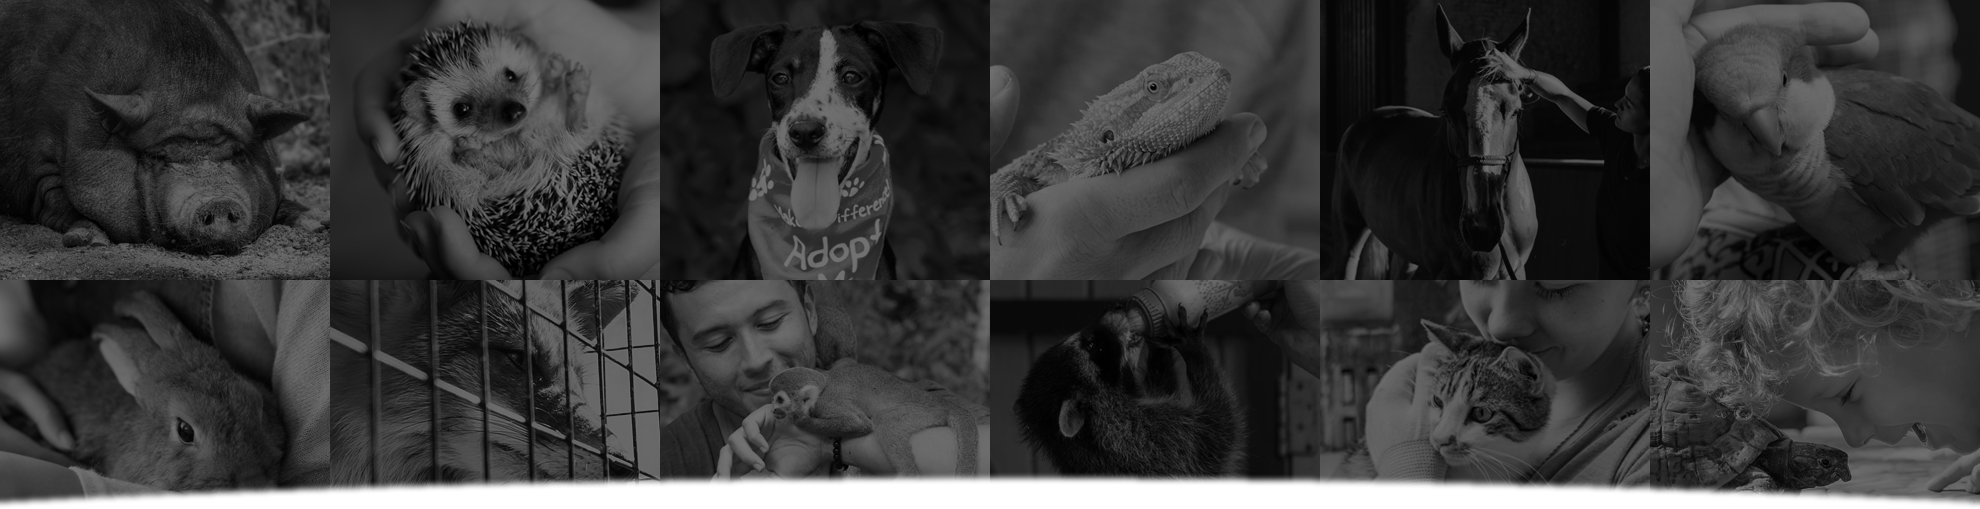
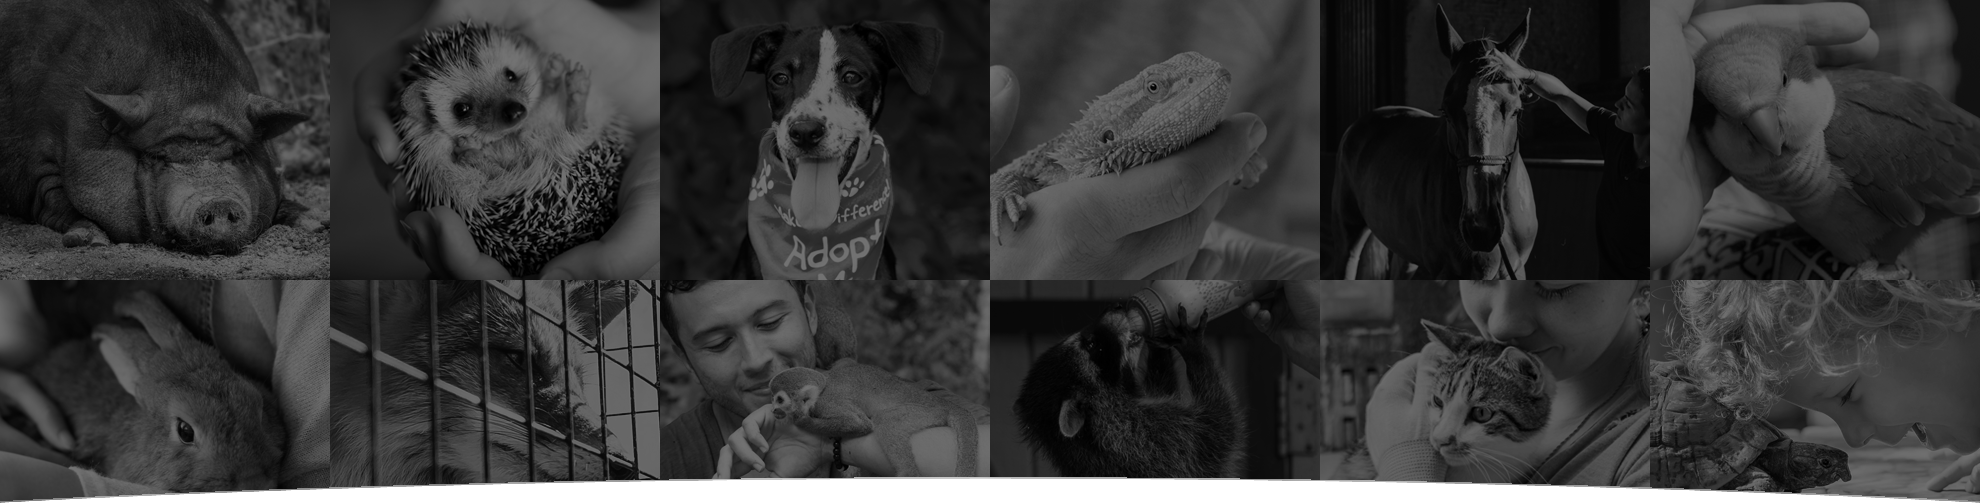
Moved margin override back into universal selector Fixes spacing regressions - Card now uses rem - Hero description now uses proper font size (24px/medium) - bg-hero edge feathering reduced - Hero/card spacing WIP

diff --git a/style.css b/style.css
@@ -22,6 +22,12 @@
 }
 
 
+/* The wildcard/universal selector doesn't take into account pseudo-elements so they must be specified explicitly */
+*, *:after {
+    /* Override default margins put in place by certain browser stylesheets */
+    margin: 0
+}
+
 body {
     /* 1200px (desktop PSD) / 16px (1rem default) = 75 */
     --max-content-width: 75rem;
@@ -30,9 +36,6 @@ body {
     --fs-lg: 2.25rem;
     --fs-md: 1.5rem;
     --fs-sm: 1rem;
-
-    /* Override default margins put in place by certain browser stylesheets */
-    margin: 0;
 
     font-family: "Montserrat", sans-serif;
 
@@ -146,7 +149,7 @@ footer {
     /* Header height, to offset navbar */
     top: 1.8rem;
     z-index: 100;
-    /* Hacky usability solution in the absence of a hamburger menu;
+    /* HACK: usability solution in the absence of a hamburger menu;
         prevents horizontal on narrow screens, instead allowing the navbar to be scrolled */
     overflow: auto;
 
@@ -206,17 +209,18 @@ footer {
     display: flex;
     flex-direction: column;
     align-items: center;
-    gap: 9rem;
+    gap: 8rem;
 
-    /* Top 8.8rem (header + navbar), l/r auto [centered], 4.5rem (72px) before cards */
+    /* Top 8.8rem (header + navbar) + 8rem (gap), l/r auto [centered], 4.5rem (72px) before cards */
     /* TODO: Consider overhaul for percentage (or similar); mobile margin is much smaller */
-    margin: 8.8rem auto 4.5rem;
+    margin: 16.8rem auto 4.5rem;
 }
 
 
 /**************
  *    HERO    *
  **************/
+/* TODO: Consider debugging/fixing left clipping if under min-width */
 .hero-bg-container {
     width: 100vw;
     height: auto;
@@ -241,11 +245,15 @@ footer {
 
     display: flex;
     flex-direction: column;
-    gap: 1rem;
+    gap: 1.8rem;
 }
 
 .hero-title {
     font-size: var(--fs-lg);
+}
+
+.hero-description {
+    font-size: var(--fs-md);
 }
 
 .hero-buttons {
@@ -330,7 +338,7 @@ footer {
  *    CARDS    *
  ***************/
 .card-container {
-    /* 1980px / 16 = 123.75, scale up*/
+    /* 1980px / 16 = 123.75, scale up */
     max-width: 124rem;
 
     display: flex;
@@ -345,9 +353,8 @@ footer {
     box-shadow: 0 20px 27px -27px;
 }
 
-/* TODO: Consider converting to rem (while keeping background scale in mind) */
 .card {
-    max-width: 862px;
+    max-width: 62rem;
     /* TODO: May need to implement a fallback if supporting legacy browsers, only became widely supported in 2021 */
     /* https://developer.mozilla.org/en-US/docs/Web/CSS/Reference/Properties/aspect-ratio#browser_compatibility */
     aspect-ratio: 3/2;
@@ -359,14 +366,13 @@ footer {
     text-align: center;
 
     display: flex;
-    /* TODO Comment describing AR calculations
-         862/1.5 = 574.66, round down. 3/1.5 = 2, so 3:2. But why? And why 862px? */
-    flex-basis: 574px;
+    /* 3/2 = 1.5, 62rem/1.5 = 41.333333rem, round down for easier calculation */
+    flex-basis: 41rem;
     flex-grow: 1;
     flex-direction: column;
     justify-content: center;
     align-items: center;
-    gap: 2rem;
+    gap: 1rem;
 
     background-repeat: no-repeat;
     background-size: cover;

diff --git a/index.html b/index.html
@@ -41,7 +41,7 @@
 
         <section class="hero-container">
             <p class="hero-title"><b>SUPPORTING</b> RESCUES. <b>SAVING</b> LIVES.</p>
-            <p>We are the voice for Canada's animal rescue organizations.</p>
+            <p class="hero-description">We are the voice for Canada's animal rescue organizations.</p>
             <div class="hero-buttons">
                 <a class="button-link hero-button-learn" href="#">LEARN MORE</a>
                 <a class="button-link hero-button-join" href="#">JOIN CARA</a>